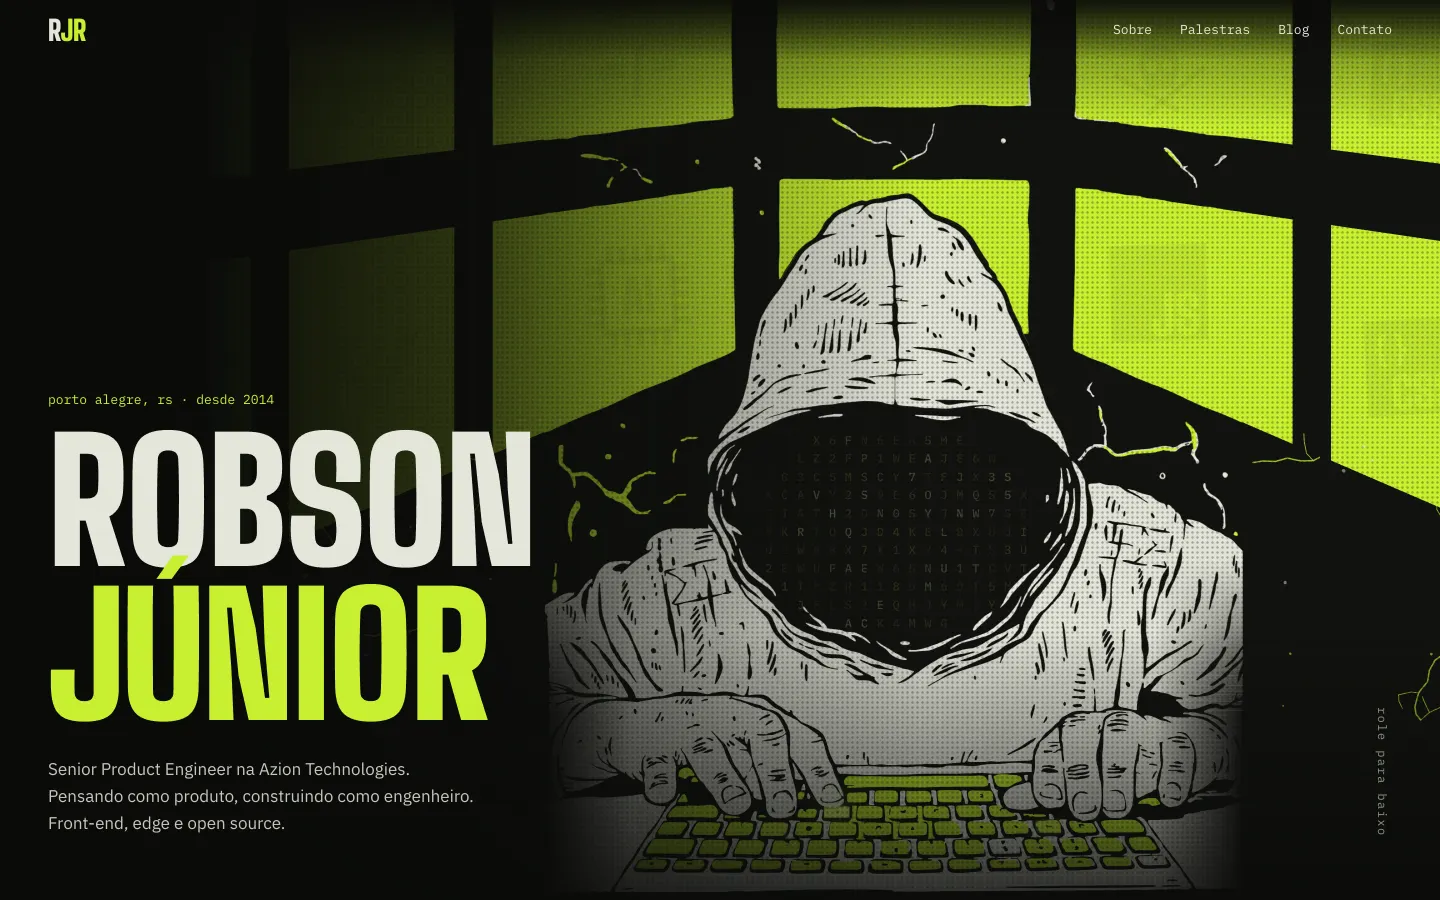
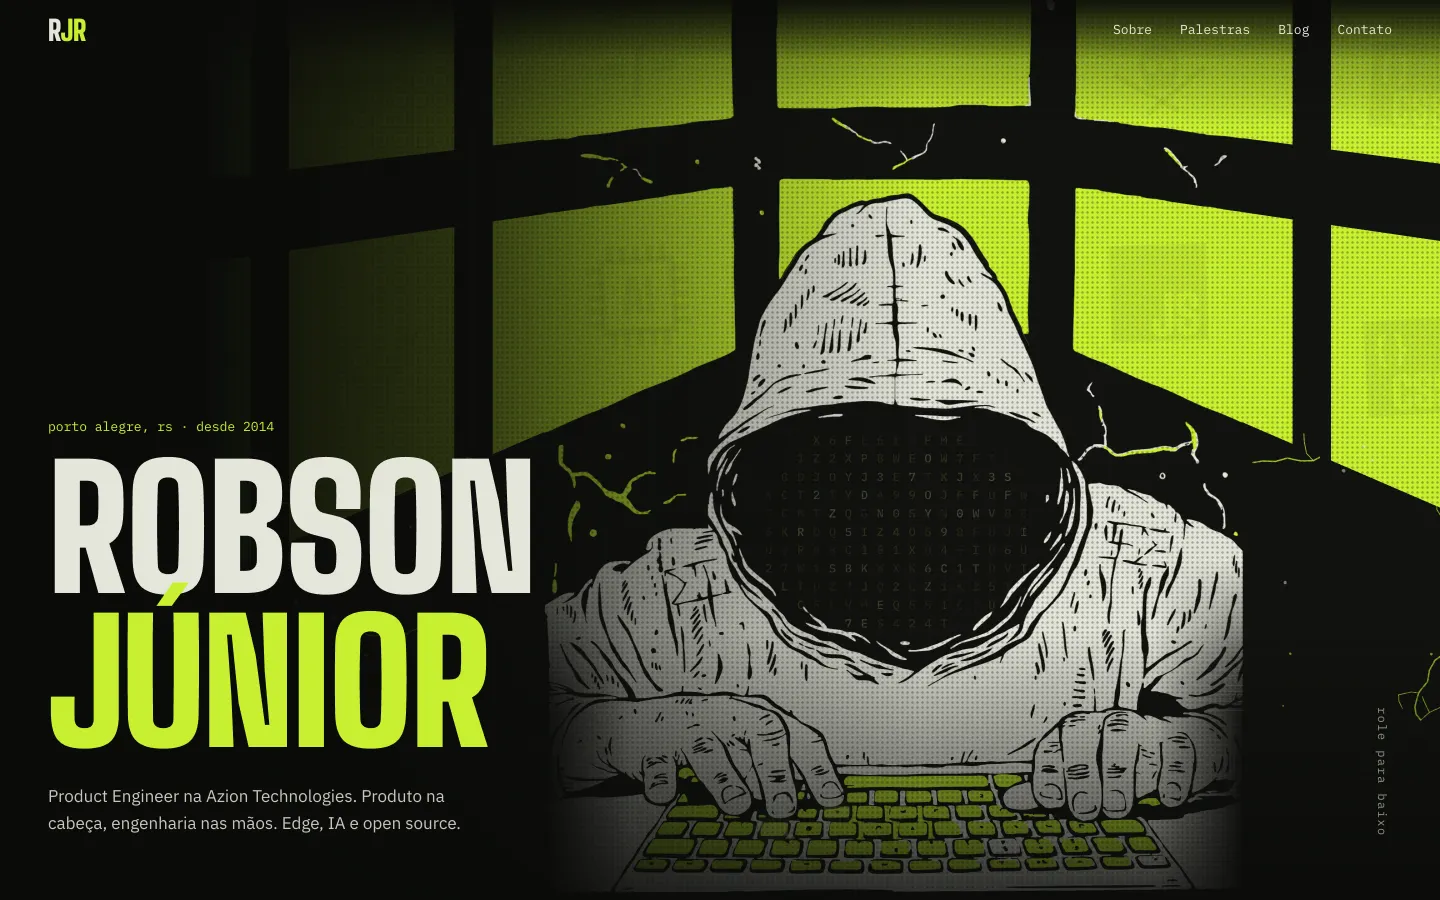
copy: Product Engineer positioning, drop Senior and front-end focus
Home hero: Produto na cabeça, engenharia nas mãos. Edge, IA e open source.
Aligned home, about and contact in pt-br and en, and the o retorno post
with fresh home screenshots. Past roles and talk topics stay as they were.

Changed region(s): [[0.0312, 0.4356, 0.375, 0.9333], [0.5625, 0.8711, 0.5938, 0.9022]]

diff --git a/src/i18n/view/about/pt-br.js b/src/i18n/view/about/pt-br.js
@@ -2,13 +2,13 @@ export default {
   meta: {
     title: 'Sobre | Robson Júnior',
     description:
-      'Robson Júnior é Senior Product Engineer na Azion Technologies. Front-end, developer tooling e edge computing, com passagem pelo Terra Networks.'
+      'Robson Júnior é Product Engineer na Azion Technologies. Produto, developer tooling e edge computing, com passagem pelo Terra Networks.'
   },
   hero: {
     eyebrow: 'sobre · robson júnior',
     title: 'Product',
     titleAccent: 'Engineer',
-    lede: 'Imerso em arquitetura front-end, developer tooling e a experiência de quem constrói aplicações na edge.',
+    lede: 'Imerso em produto, developer tooling e na experiência de quem constrói aplicações na edge.',
     cue: 'role para baixo'
   },
   intro: {
@@ -25,7 +25,7 @@ export default {
     id: 'bio',
     title: 'Bio',
     paragraphs: [
-      'Robson Júnior é Senior Product Engineer na Azion Technologies, no time de UX Engineering. Na Azion, também passou pelos times de Experience Engineering, Marketing Engineering, Core Services e Routing Services, onde trabalhou em uma aplicação de RUM (Real User Monitoring). Antes, fez parte do time de Tecnologia da Terra Networks em Porto Alegre, passando por SVA, Tecnologia Portal, Entretenimento e Tecnologia de E-mail, e participou da criação do primeiro time Full DevOps da empresa.'
+      'Robson Júnior é Product Engineer na Azion Technologies, no time de UX Engineering. Na Azion, também passou pelos times de Experience Engineering, Marketing Engineering, Core Services e Routing Services, onde trabalhou em uma aplicação de RUM (Real User Monitoring). Antes, fez parte do time de Tecnologia da Terra Networks em Porto Alegre, passando por SVA, Tecnologia Portal, Entretenimento e Tecnologia de E-mail, e participou da criação do primeiro time Full DevOps da empresa.'
     ]
   },
   editorial: {
@@ -49,10 +49,10 @@ export default {
     },
     now: {
       index: 'Agora',
-      role: 'Senior Product Engineer',
+      role: 'Product Engineer',
       company: 'Azion Technologies',
       team: 'time de UX Engineering',
-      focus: 'Imerso em arquitetura front-end, developer tooling e a experiência de quem constrói aplicações na edge.'
+      focus: 'Imerso em produto, developer tooling e na experiência de quem constrói aplicações na edge.'
     },
     journey: {
       index: 'Trajetória',
@@ -71,7 +71,7 @@ export default {
         {
           when: 'hoje',
           where: 'Azion Technologies',
-          what: 'Senior Product Engineer',
+          what: 'Product Engineer',
           detail: 'Experience Engineering, Marketing Engineering, Core Services, Routing Services (uma aplicação de RUM) e, hoje, UX Engineering.'
         }
       ]
@@ -94,7 +94,7 @@ export default {
       },
       themes: {
         index: 'Temas recorrentes',
-        items: ['JAM Stack', 'Edge computing', 'Escalabilidade', 'Arquitetura front-end']
+        items: ['JAM Stack', 'Edge computing', 'Escalabilidade', 'Developer tooling']
       },
       listIndex: 'Apresentações',
       external: '(abre em nova aba)'

diff --git a/src/i18n/view/about/en.js b/src/i18n/view/about/en.js
@@ -2,13 +2,13 @@ export default {
   meta: {
     title: 'About | Robson Júnior',
     description:
-      'Robson Júnior is a Senior Product Engineer at Azion Technologies. Front-end, developer tooling and edge computing, formerly at Terra Networks.'
+      'Robson Júnior is a Product Engineer at Azion Technologies. Product, developer tooling and edge computing, formerly at Terra Networks.'
   },
   hero: {
     eyebrow: 'about · robson júnior',
     title: 'Product',
     titleAccent: 'Engineer',
-    lede: 'Deep into front-end architecture, developer tooling and the experience of people building applications on the edge.',
+    lede: 'Deep into product, developer tooling and the experience of people building applications on the edge.',
     cue: 'scroll down'
   },
   intro: {
@@ -25,7 +25,7 @@ export default {
     id: 'bio',
     title: 'Bio',
     paragraphs: [
-      "Robson Júnior is a Senior Product Engineer at Azion Technologies, on the UX Engineering team. At Azion he has also worked on the Experience Engineering, Marketing Engineering, Core Services and Routing Services teams, where he built a RUM (Real User Monitoring) application. Before that he was part of the Technology team at Terra Networks in Porto Alegre, working on SVA, Portal Technology, Entertainment and E-mail Technology, and helped create the company's first Full DevOps team."
+      "Robson Júnior is a Product Engineer at Azion Technologies, on the UX Engineering team. At Azion he has also worked on the Experience Engineering, Marketing Engineering, Core Services and Routing Services teams, where he built a RUM (Real User Monitoring) application. Before that he was part of the Technology team at Terra Networks in Porto Alegre, working on SVA, Portal Technology, Entertainment and E-mail Technology, and helped create the company's first Full DevOps team."
     ]
   },
   editorial: {
@@ -49,10 +49,10 @@ export default {
     },
     now: {
       index: 'Now',
-      role: 'Senior Product Engineer',
+      role: 'Product Engineer',
       company: 'Azion Technologies',
       team: 'UX Engineering team',
-      focus: 'Deep into front-end architecture, developer tooling and the experience of people building applications on the edge.'
+      focus: 'Deep into product, developer tooling and the experience of people building applications on the edge.'
     },
     journey: {
       index: 'Journey',
@@ -71,7 +71,7 @@ export default {
         {
           when: 'now',
           where: 'Azion Technologies',
-          what: 'Senior Product Engineer',
+          what: 'Product Engineer',
           detail: 'Experience Engineering, Marketing Engineering, Core Services, Routing Services (a RUM application) and, now, UX Engineering.'
         }
       ]
@@ -94,7 +94,7 @@ export default {
       },
       themes: {
         index: 'Recurring themes',
-        items: ['JAM Stack', 'Edge computing', 'Scalability', 'Front-end architecture']
+        items: ['JAM Stack', 'Edge computing', 'Scalability', 'Developer tooling']
       },
       listIndex: 'Decks',
       external: '(opens in a new tab)'

diff --git a/src/i18n/view/home/en.js b/src/i18n/view/home/en.js
@@ -1,21 +1,21 @@
 export default {
   meta: {
-    title: 'Robson Júnior | Senior Product Engineer',
+    title: 'Robson Júnior | Product Engineer',
     description:
-      'Robson Júnior, Senior Product Engineer at Azion Technologies. Thinking like product, building like an engineer. Front-end, edge and open source.'
+      'Robson Júnior, Product Engineer at Azion Technologies. Product in mind, engineering in hand. Edge, AI and open source.'
   },
   hero: {
     eyebrow: 'porto alegre, brazil · since 2014',
     title: 'Robson',
     titleAccent: 'Júnior',
-    lede: 'Senior Product Engineer at Azion Technologies. Thinking like product, building like an engineer. Front-end, edge and open source.',
+    lede: 'Product Engineer at Azion Technologies. Product in mind, engineering in hand. Edge, AI and open source.',
     cue: 'scroll down'
   },
   about: {
     id: 'about',
     title: 'About',
     paragraphs: [
-      'Deep into front-end architecture, developer tooling and the experience of people building applications on the edge. Thinking like product, building like an engineer.',
+      'Deep into product, developer tooling and the experience of people building applications on the edge. Thinking like product, building like an engineer.',
       'I have been on the web since 2014. I started out writing CSS3 animations, worked at Terra Networks as a Software Developer and Front-End Engineer and landed at <a href="https://www.azion.com/en/">Azion Technologies</a>, where I keep getting closer to product and architecture decisions.',
       'Born in Gramado, living in Porto Alegre. I like the web, browser applications, Chrome extensions and open source.'
     ]
@@ -38,7 +38,7 @@ export default {
         }
       ],
       summary:
-        'Deep into front-end architecture, developer tooling and the experience of people building applications on the edge. On the web since 2014, I went through Terra Networks and I am now a Senior Product Engineer at Azion Technologies.',
+        'Deep into product, developer tooling and the experience of people building applications on the edge. On the web since 2014, I went through Terra Networks and I am now a Product Engineer at Azion Technologies.',
       meta: ['gramado → porto alegre', '30°02′S 51°13′W'],
       more: 'know more'
     },

diff --git a/src/i18n/view/home/pt-br.js b/src/i18n/view/home/pt-br.js
@@ -1,21 +1,21 @@
 export default {
   meta: {
-    title: 'Robson Júnior | Senior Product Engineer',
+    title: 'Robson Júnior | Product Engineer',
     description:
-      'Robson Júnior, Senior Product Engineer na Azion Technologies. Pensando como produto, construindo como engenheiro. Front-end, edge e open source.'
+      'Robson Júnior, Product Engineer na Azion Technologies. Produto na cabeça, engenharia nas mãos. Edge, IA e open source.'
   },
   hero: {
     eyebrow: 'porto alegre, rs · desde 2014',
     title: 'Robson',
     titleAccent: 'Júnior',
-    lede: 'Senior Product Engineer na Azion Technologies. Pensando como produto, construindo como engenheiro. Front-end, edge e open source.',
+    lede: 'Product Engineer na Azion Technologies. Produto na cabeça, engenharia nas mãos. Edge, IA e open source.',
     cue: 'role para baixo'
   },
   about: {
     id: 'sobre',
     title: 'Sobre',
     paragraphs: [
-      'Imerso em arquitetura front-end, developer tooling e a experiência de quem constrói aplicações na edge. Pensando como produto, construindo como engenheiro.',
+      'Imerso em produto, developer tooling e na experiência de quem constrói aplicações na edge. Pensando como produto, construindo como engenheiro.',
       'Estou na web desde 2014. Comecei fazendo animações em CSS3, passei pelo Terra Networks como Software Developer e Front-End Engineer e cheguei à <a href="https://www.azion.com/pt-br/">Azion Technologies</a>, onde venho trabalhando cada vez mais perto do produto e das decisões de arquitetura.',
       'Nasci em Gramado e moro em Porto Alegre. Gosto de web, browser applications, extensões de Chrome e open source.'
     ]
@@ -38,7 +38,7 @@ export default {
         }
       ],
       summary:
-        'Imerso em arquitetura front-end, developer tooling e na experiência de quem constrói aplicações na edge. Na web desde 2014, passei pelo Terra Networks e hoje sou Senior Product Engineer na Azion Technologies.',
+        'Imerso em produto, developer tooling e na experiência de quem constrói aplicações na edge. Na web desde 2014, passei pelo Terra Networks e hoje sou Product Engineer na Azion Technologies.',
       meta: ['gramado → porto alegre', '30°02′S 51°13′W'],
       more: 'conhecer mais'
     },

diff --git a/src/i18n/view/contact/en.js b/src/i18n/view/contact/en.js
@@ -1,13 +1,13 @@
 export default {
   meta: {
     title: 'Contact | Robson Júnior',
-    description: 'Get in touch with Robson Júnior about front-end, the edge, talks or projects.'
+    description: 'Get in touch with Robson Júnior about product, the edge, AI, talks or projects.'
   },
   id: 'contact',
   intro: {
     index: 'Contact',
     statement: "Let's talk.",
-    summary: 'About front-end, the edge, a talk invitation or a project. Write through the form or find me on social media.',
+    summary: 'About product, the edge, AI, a talk invitation or a project. Write through the form or find me on social media.',
     meta: ['porto alegre, rs', 'brazil'],
     links: ['linkedin', 'github', 'speakerdeck', 'instagram', 'twitter']
   },

diff --git a/src/i18n/view/contact/pt-br.js b/src/i18n/view/contact/pt-br.js
@@ -1,13 +1,13 @@
 export default {
   meta: {
     title: 'Contato | Robson Júnior',
-    description: 'Fale com Robson Júnior sobre front-end, edge, palestras ou projetos.'
+    description: 'Fale com Robson Júnior sobre produto, edge, IA, palestras ou projetos.'
   },
   id: 'contato',
   intro: {
     index: 'Contato',
     statement: 'Vamos conversar.',
-    summary: 'Sobre front-end, edge, um convite para palestra ou um projeto. Escreva pelo formulário ou me encontre nas redes.',
+    summary: 'Sobre produto, edge, IA, um convite para palestra ou um projeto. Escreva pelo formulário ou me encontre nas redes.',
     meta: ['porto alegre, rs', 'brasil'],
     links: ['linkedin', 'github', 'speakerdeck', 'instagram', 'twitter']
   },

diff --git a/src/content/blog/pt-br/o-retorno.md b/src/content/blog/pt-br/o-retorno.md
@@ -29,9 +29,9 @@ Era isso. E o blog estava parado.
 
 ## O que virou
 
-A home nova abre com a cena do quadro. O nome vem em tipografia condensada enorme, "ROBSON JÚNIOR", com "porto alegre, rs · desde 2014" logo acima e uma linha que resume onde estou: Senior Product Engineer na Azion Technologies. Pensando como produto, construindo como engenheiro. Front-end, edge e open source.
+A home nova abre com a cena do quadro. O nome vem em tipografia condensada enorme, "ROBSON JÚNIOR", com "porto alegre, rs · desde 2014" logo acima e uma linha que resume onde estou: Product Engineer na Azion Technologies. Produto na cabeça, engenharia nas mãos. Edge, IA e open source.
 
-![Home nova no desktop: a ilustração do quadro, com a figura de capuz digitando, ocupa o fundo; à esquerda, o nome ROBSON JÚNIOR e a descrição de Senior Product Engineer na Azion](/static/uploads/blog/pt-br/o-retorno/depois-home-desktop.webp)
+![Home nova no desktop: a ilustração do quadro, com a figura de capuz digitando, ocupa o fundo; à esquerda, o nome ROBSON JÚNIOR e a descrição de Product Engineer na Azion](/static/uploads/blog/pt-br/o-retorno/depois-home-desktop.webp)
 
 A ilustração não é uma imagem chapada. Ela foi separada em camadas (fundo, meio e frente) que se movem em canvas. É o quadro ganhando um pouco de profundidade na tela.
 
